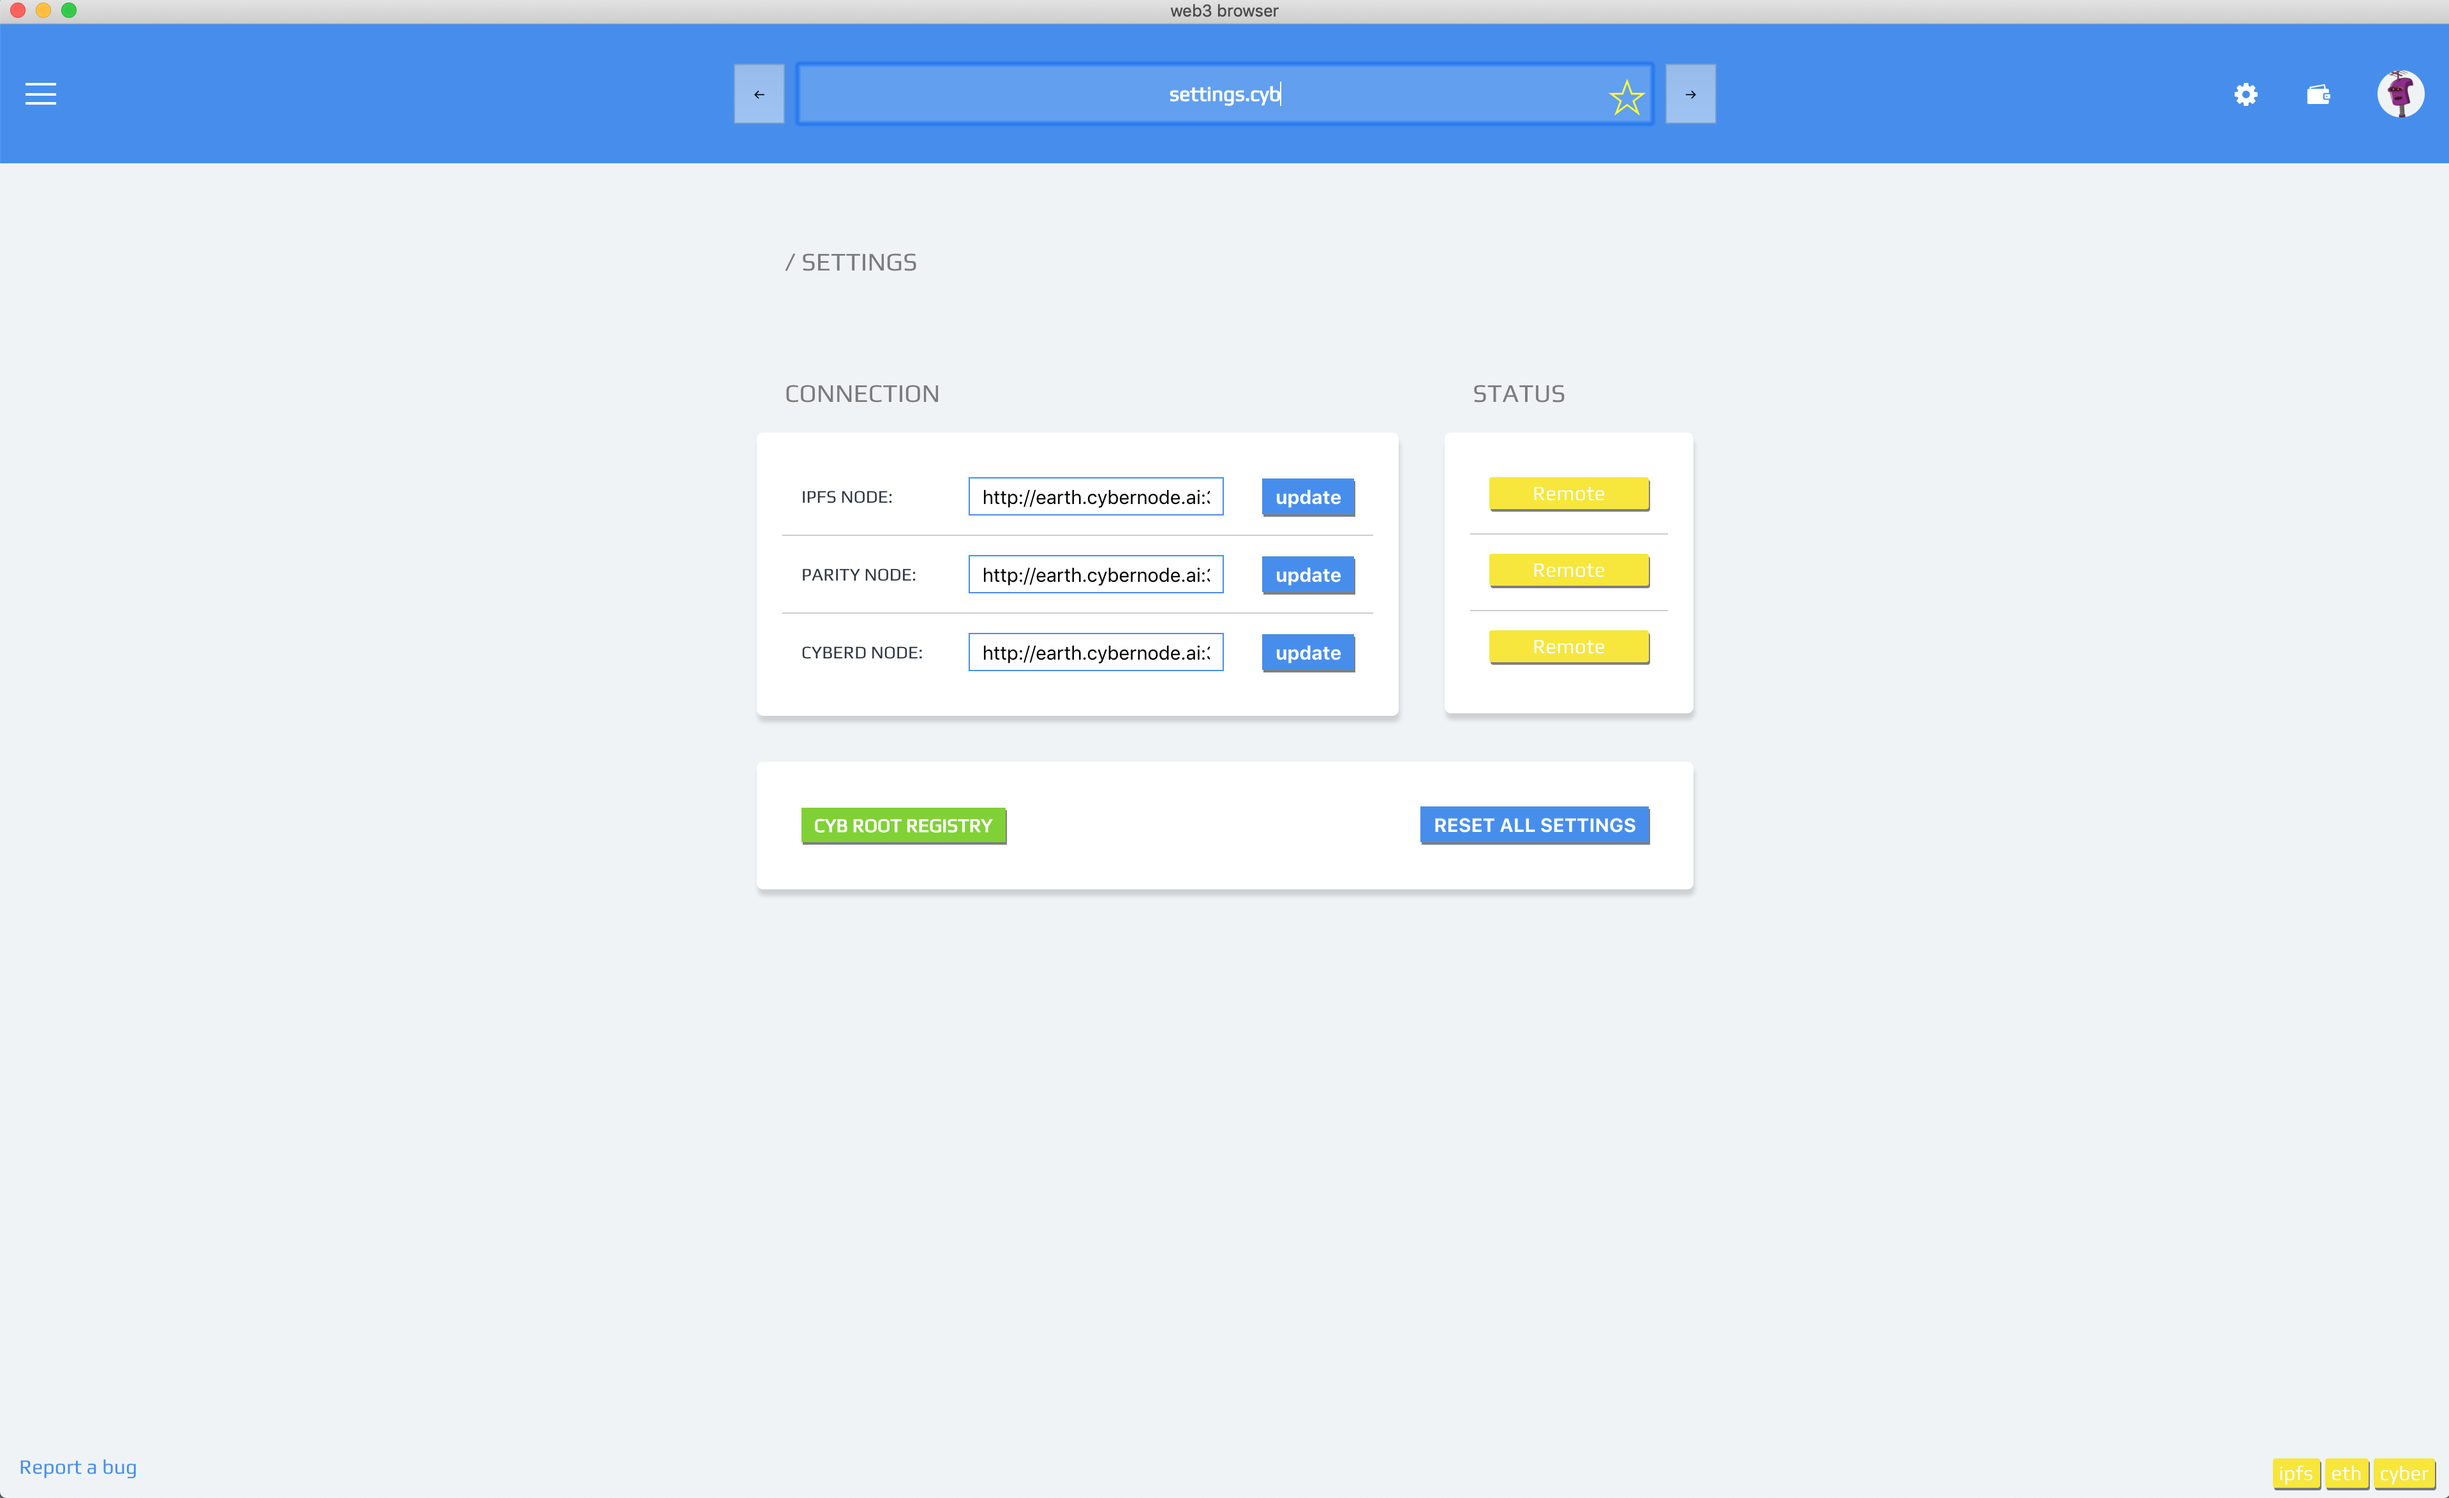
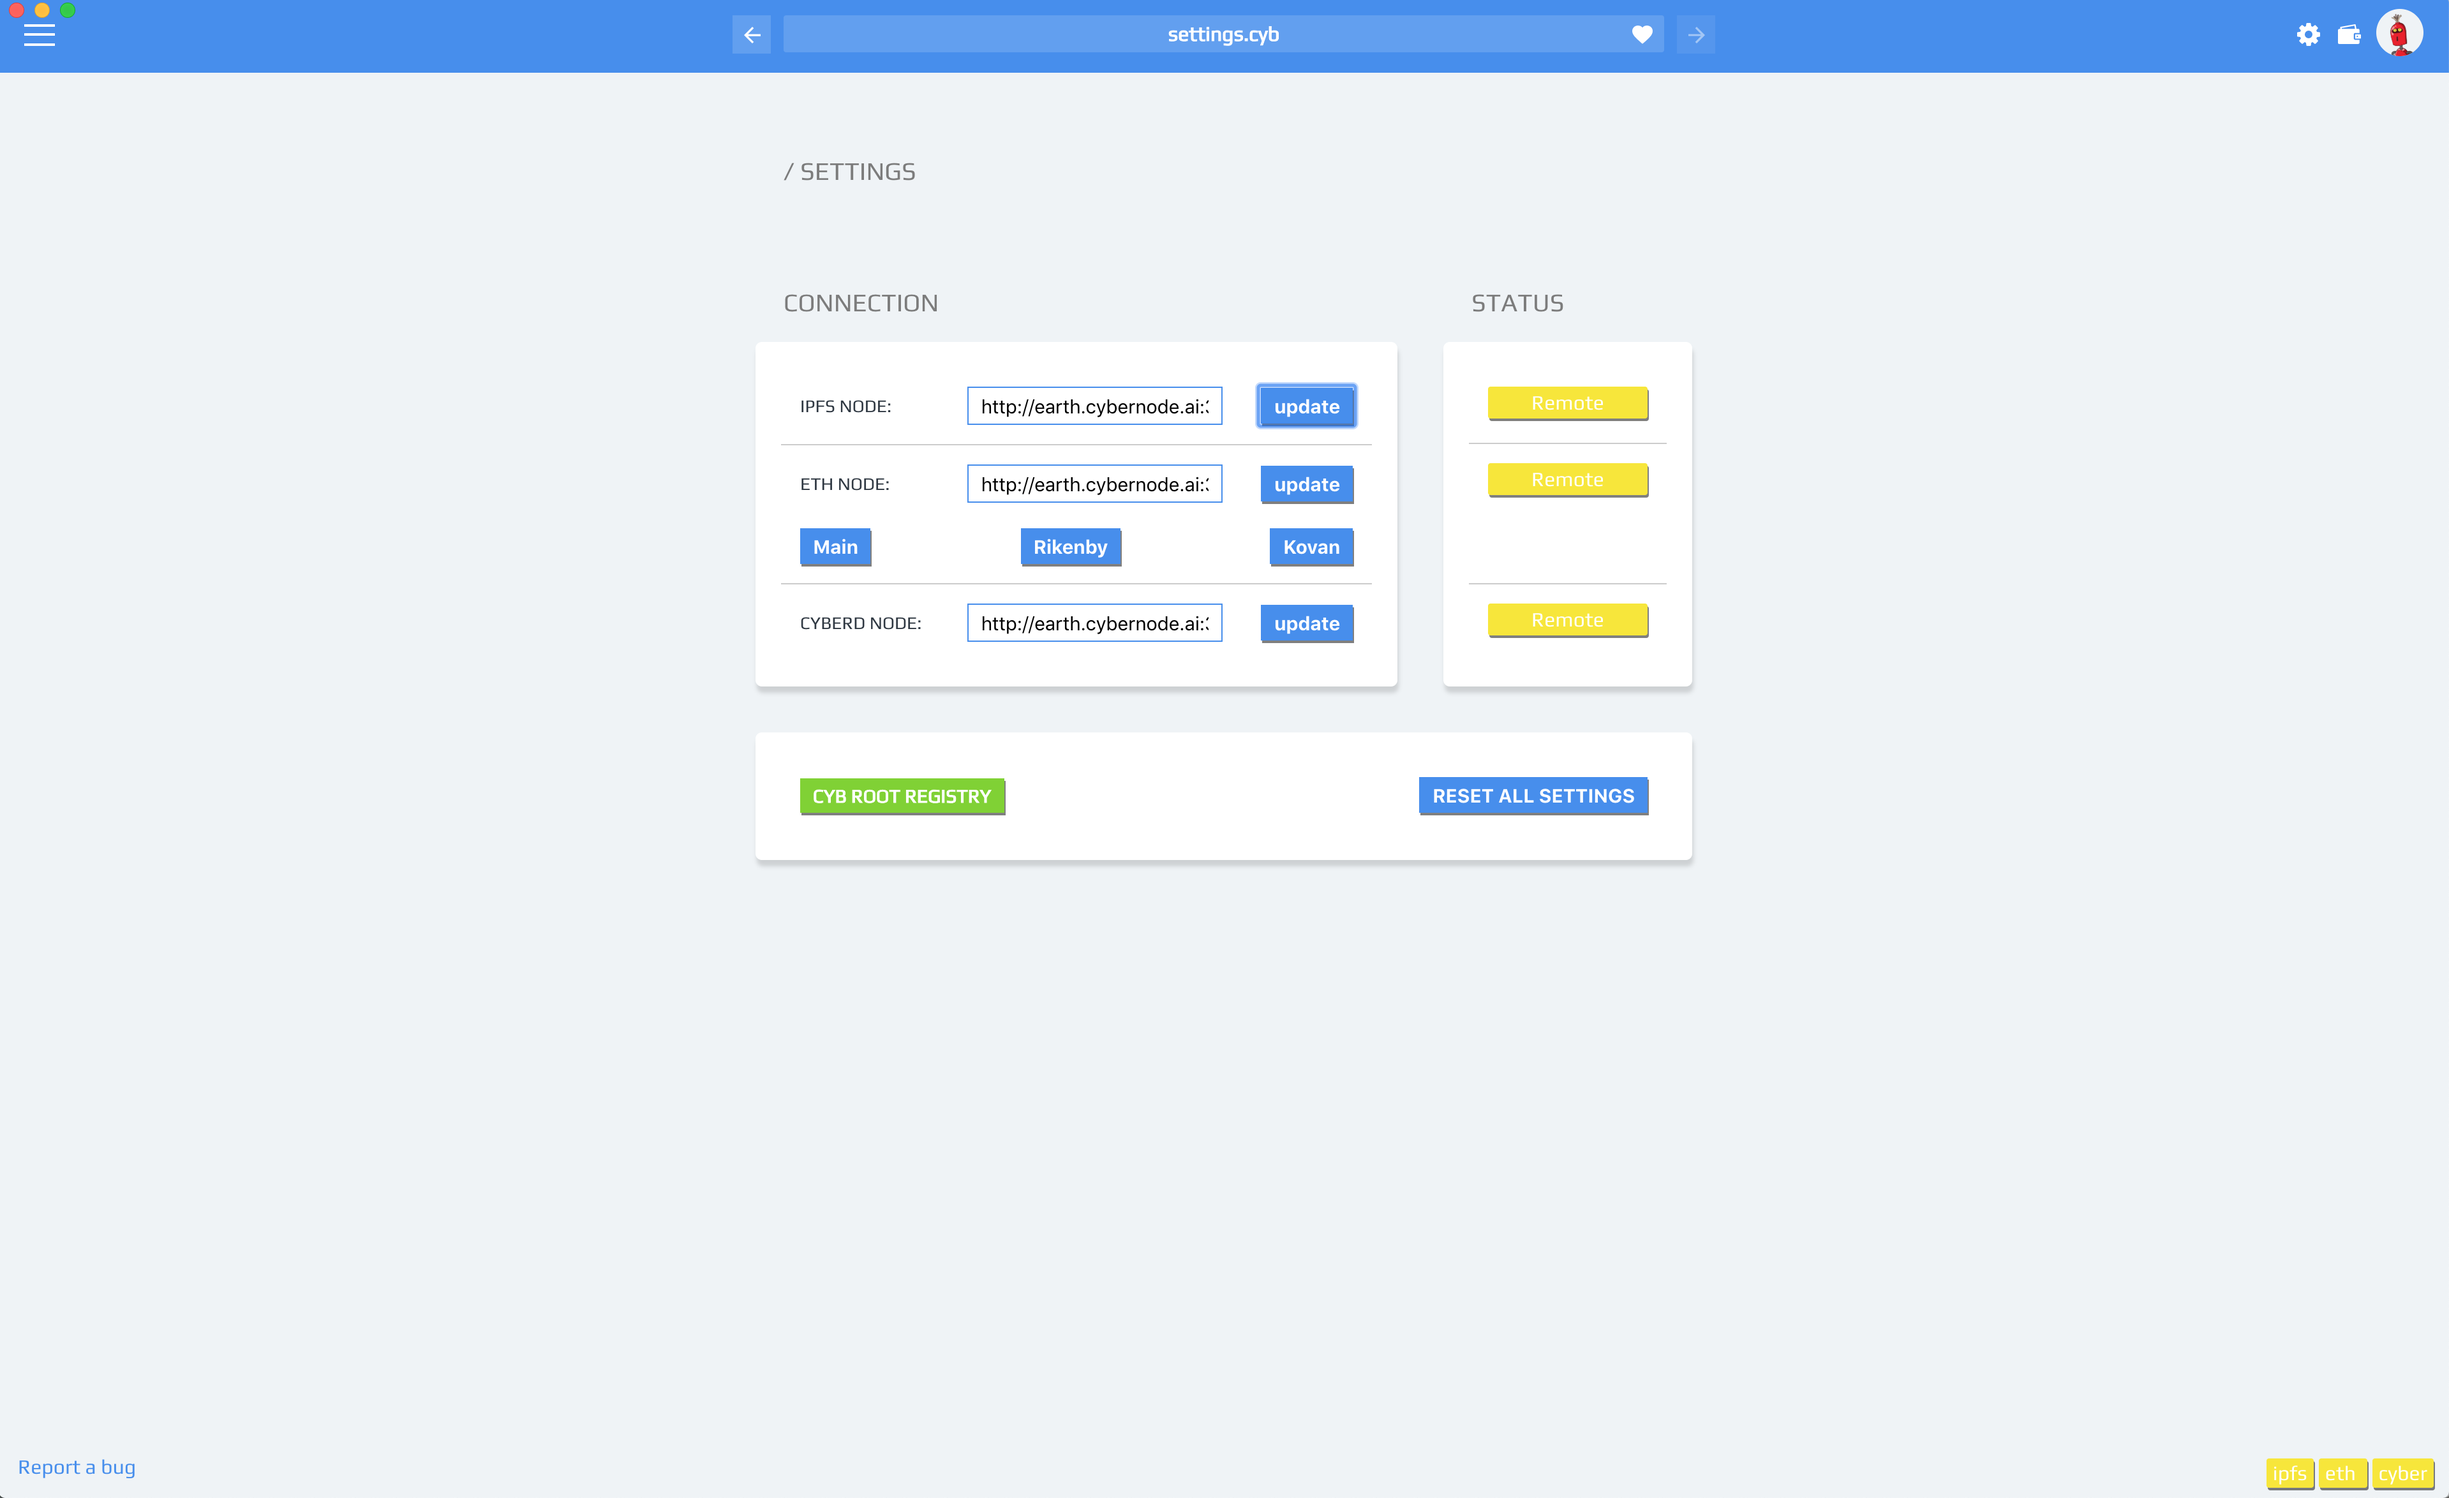
add eth node adding tutorial

diff --git a/blog/drafts/cyb_tutorial_eth_local_node/eth_node.md b/blog/drafts/cyb_tutorial_eth_local_node/eth_node.md
@@ -1,0 +1,64 @@
+# How to add custom ETH node to your Cyb
+
+![pic](0.png)
+
+by [@savetheales](https://cyb//0x00CA47db1BE92C1072e973fd8DC4A082f7d70214.eth)
+
+[← Previous post](https://steemit.com/web3/@savetheales/how-to-add-custom-ipfs-node-to-your-cyb)
+
+ToC:
+
+[1. How to open ipfs link using Cyb](https://steemit.com/web3/@savetheales/how-to-open-ipfs-link-using-cyb)
+
+[2. How to add custom ipfs node to your Cyb](https://steemit.com/web3/@savetheales/how-to-add-custom-ipfs-node-to-your-cyb)
+
+Hi! As we know from [previous post](https://steemit.com/web3/@savetheales/how-to-add-custom-ipfs-node-to-your-cyb) we need 3 greenlights on the right side of footer. Today we'll add ETH node to Cyb. We'll use Parity node for example, but you can try geth node if you feel strong enough.
+
+### Installing Parity-node
+
+The easiest way to install stable version of Parity is [Homebrew](https://brew.sh/) by following command:
+
+`brew tap paritytech/paritytech`
+
+`brew install parity`
+
+Additional methods you can explore [here](https://wiki.parity.io/Setup), but I still recommend you [Homebrew](https://brew.sh/) :)
+
+### Syncing
+
+After successful installing run:
+
+`parity --jsonrpc-cors="all" --jsonrpc-apis="all" --jsonrpc-interface=all`
+
+this command start syncing Parity. Actually node is available for using at port
+
+`http://127.0.0.1:8545`
+
+After syncing I reccomend you launch Parity with Homebrew by following command:
+>not ready
+
+`brew services start parity`
+
+It's launch Parity in background mode.
+
+
+
+### Adding port to Cyb
+
+Launch Cyb, latest version you can download [here](https://github.com/cybercongress/cyb/releases) if you still not have :) . Type `settings.cyb` in a search field or click on a gear in top right side.
+
+You need to insert this port `http://127.0.0.1:8545` opposite `ETH NODE` like this:
+
+![result](1.png)
+
+That it ;)
+
+Now you run your own node and use it with Cyb ;)
+
+2 of 3, move on! ;)
+
+![result](2.png)
+
+Subscribe at [Steemit](https://steemit.com/@cybercongress), [Reddit](https://www.reddit.com/r/cybercongress/), [Twitter](https://twitter.com/cyber_devs), [Telegram channel](https://t.me/cybercongress) and join to our community in [@fuckgoogle](https://t.me/fuckgoogle)
+
+[← Previous post](https://steemit.com/web3/@savetheales/how-to-add-custom-ipfs-node-to-your-cyb)
